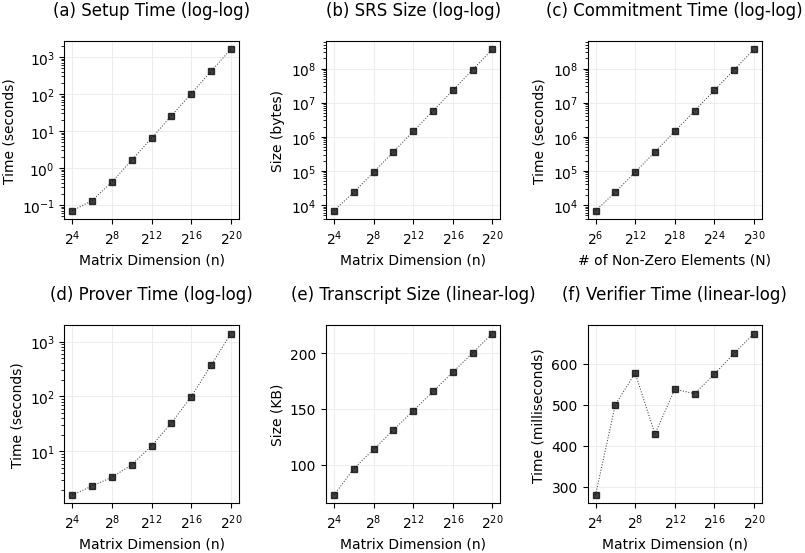
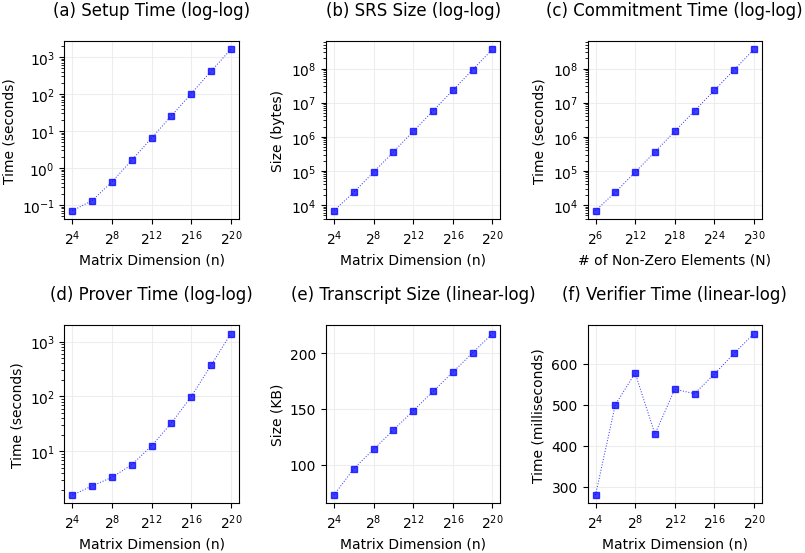
wip

diff --git a/python/fig1.py b/python/fig1.py
@@ -35,7 +35,7 @@ MARKER_SIZE_BIG = 30
 
 Y_SUBTITLE = -0.4
 
-COLOR = 'black'
+COLOR = 'blue'
 LINE_STYLE = ':'
 LINE_WIDTH = 0.75
 
